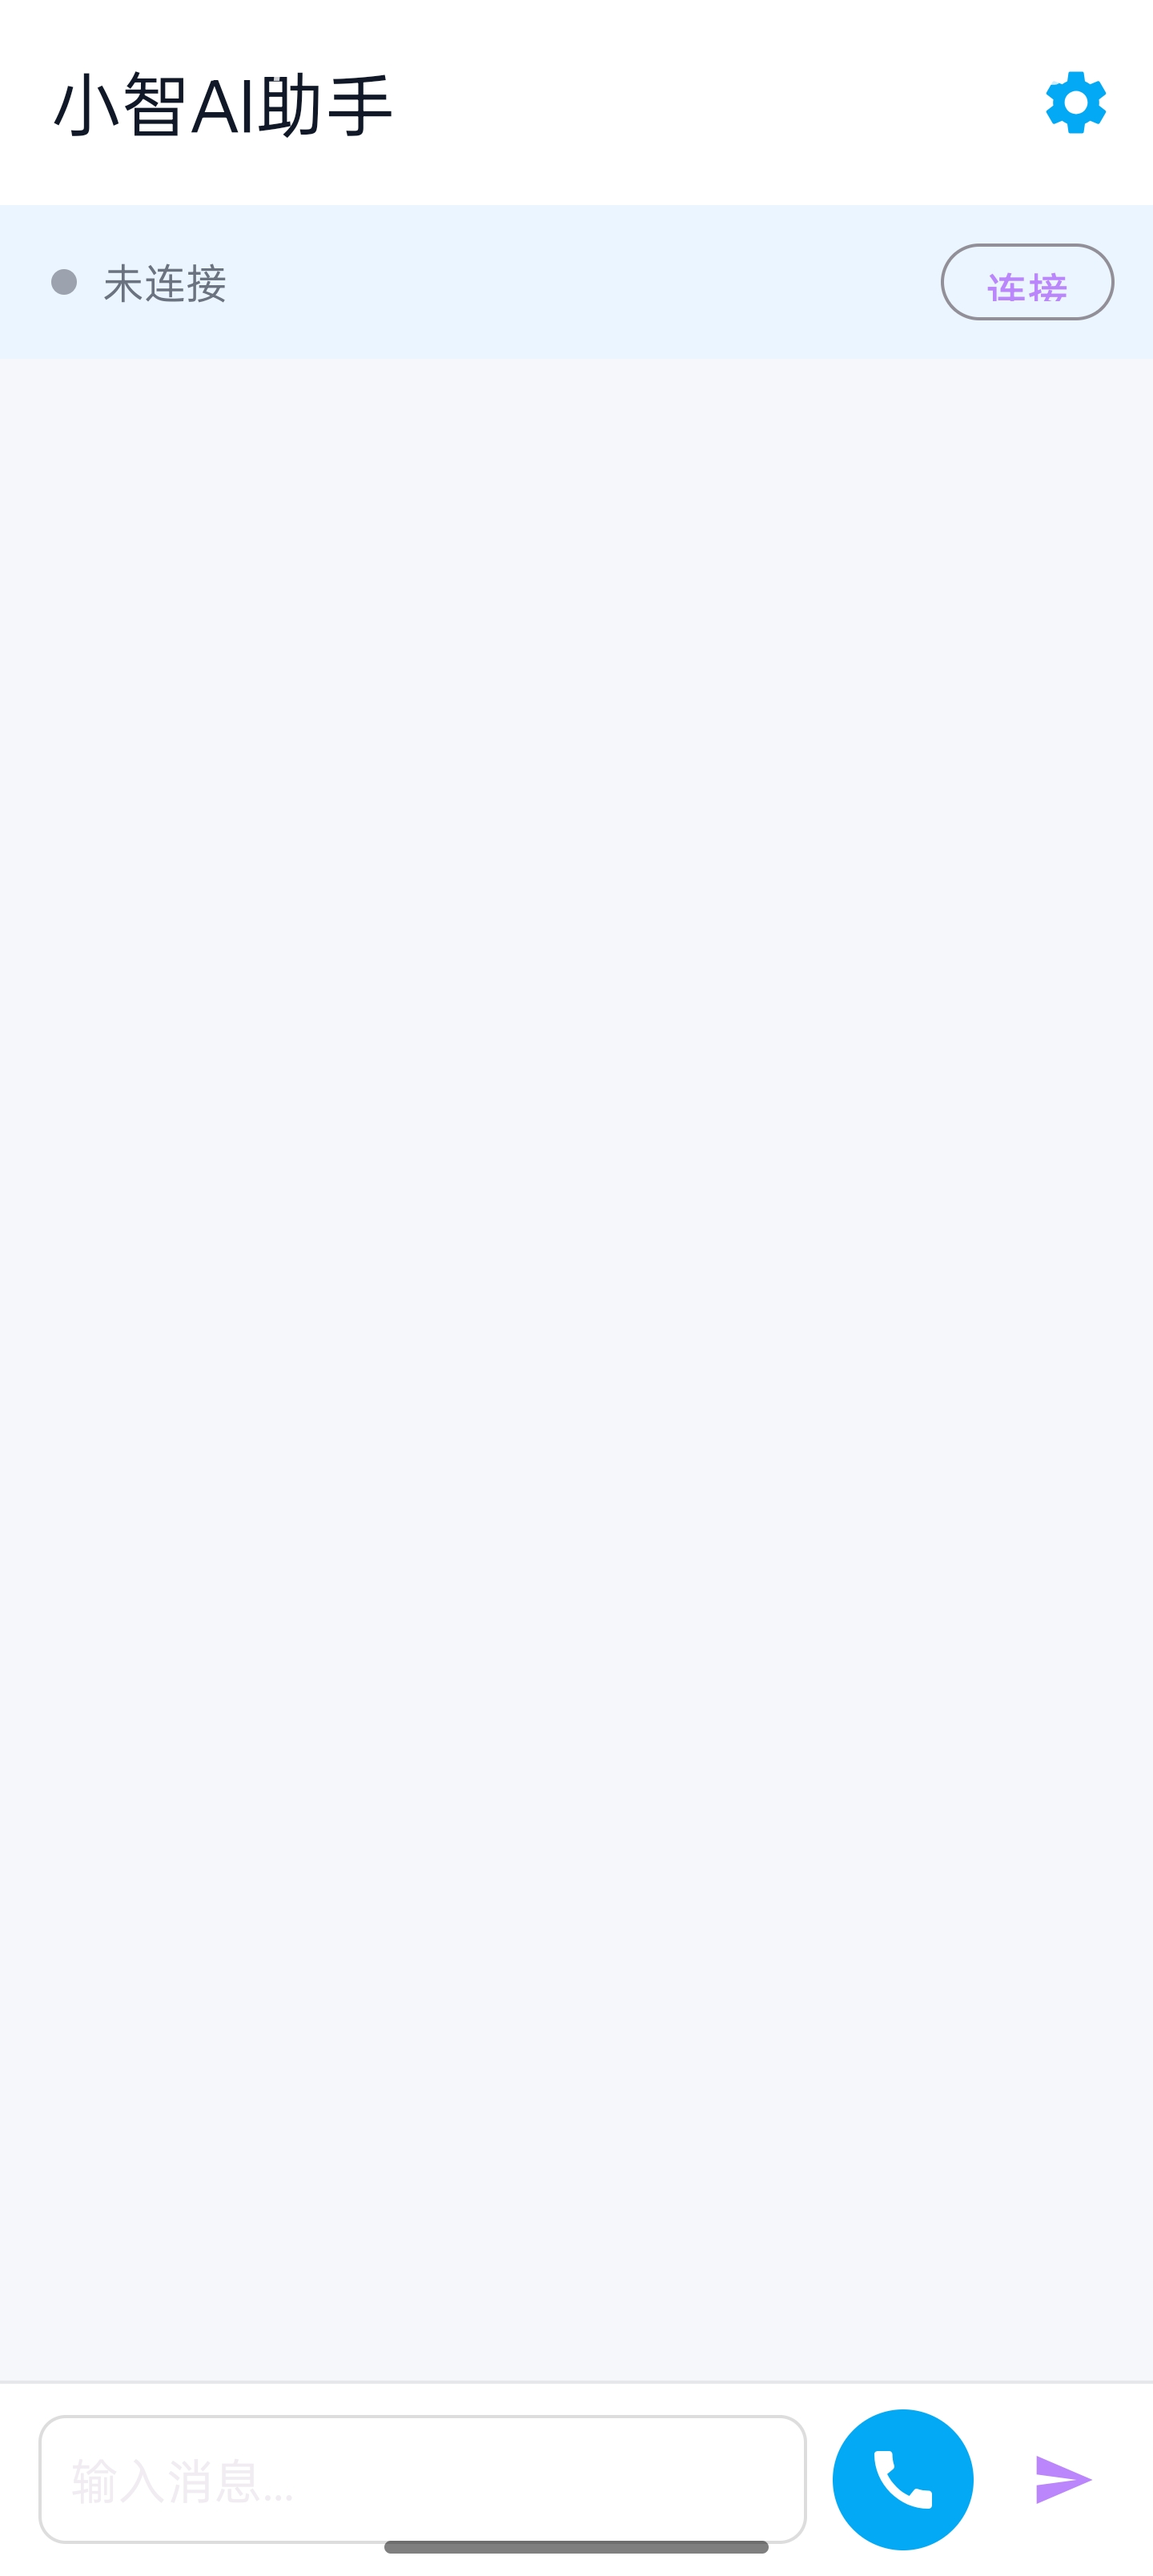
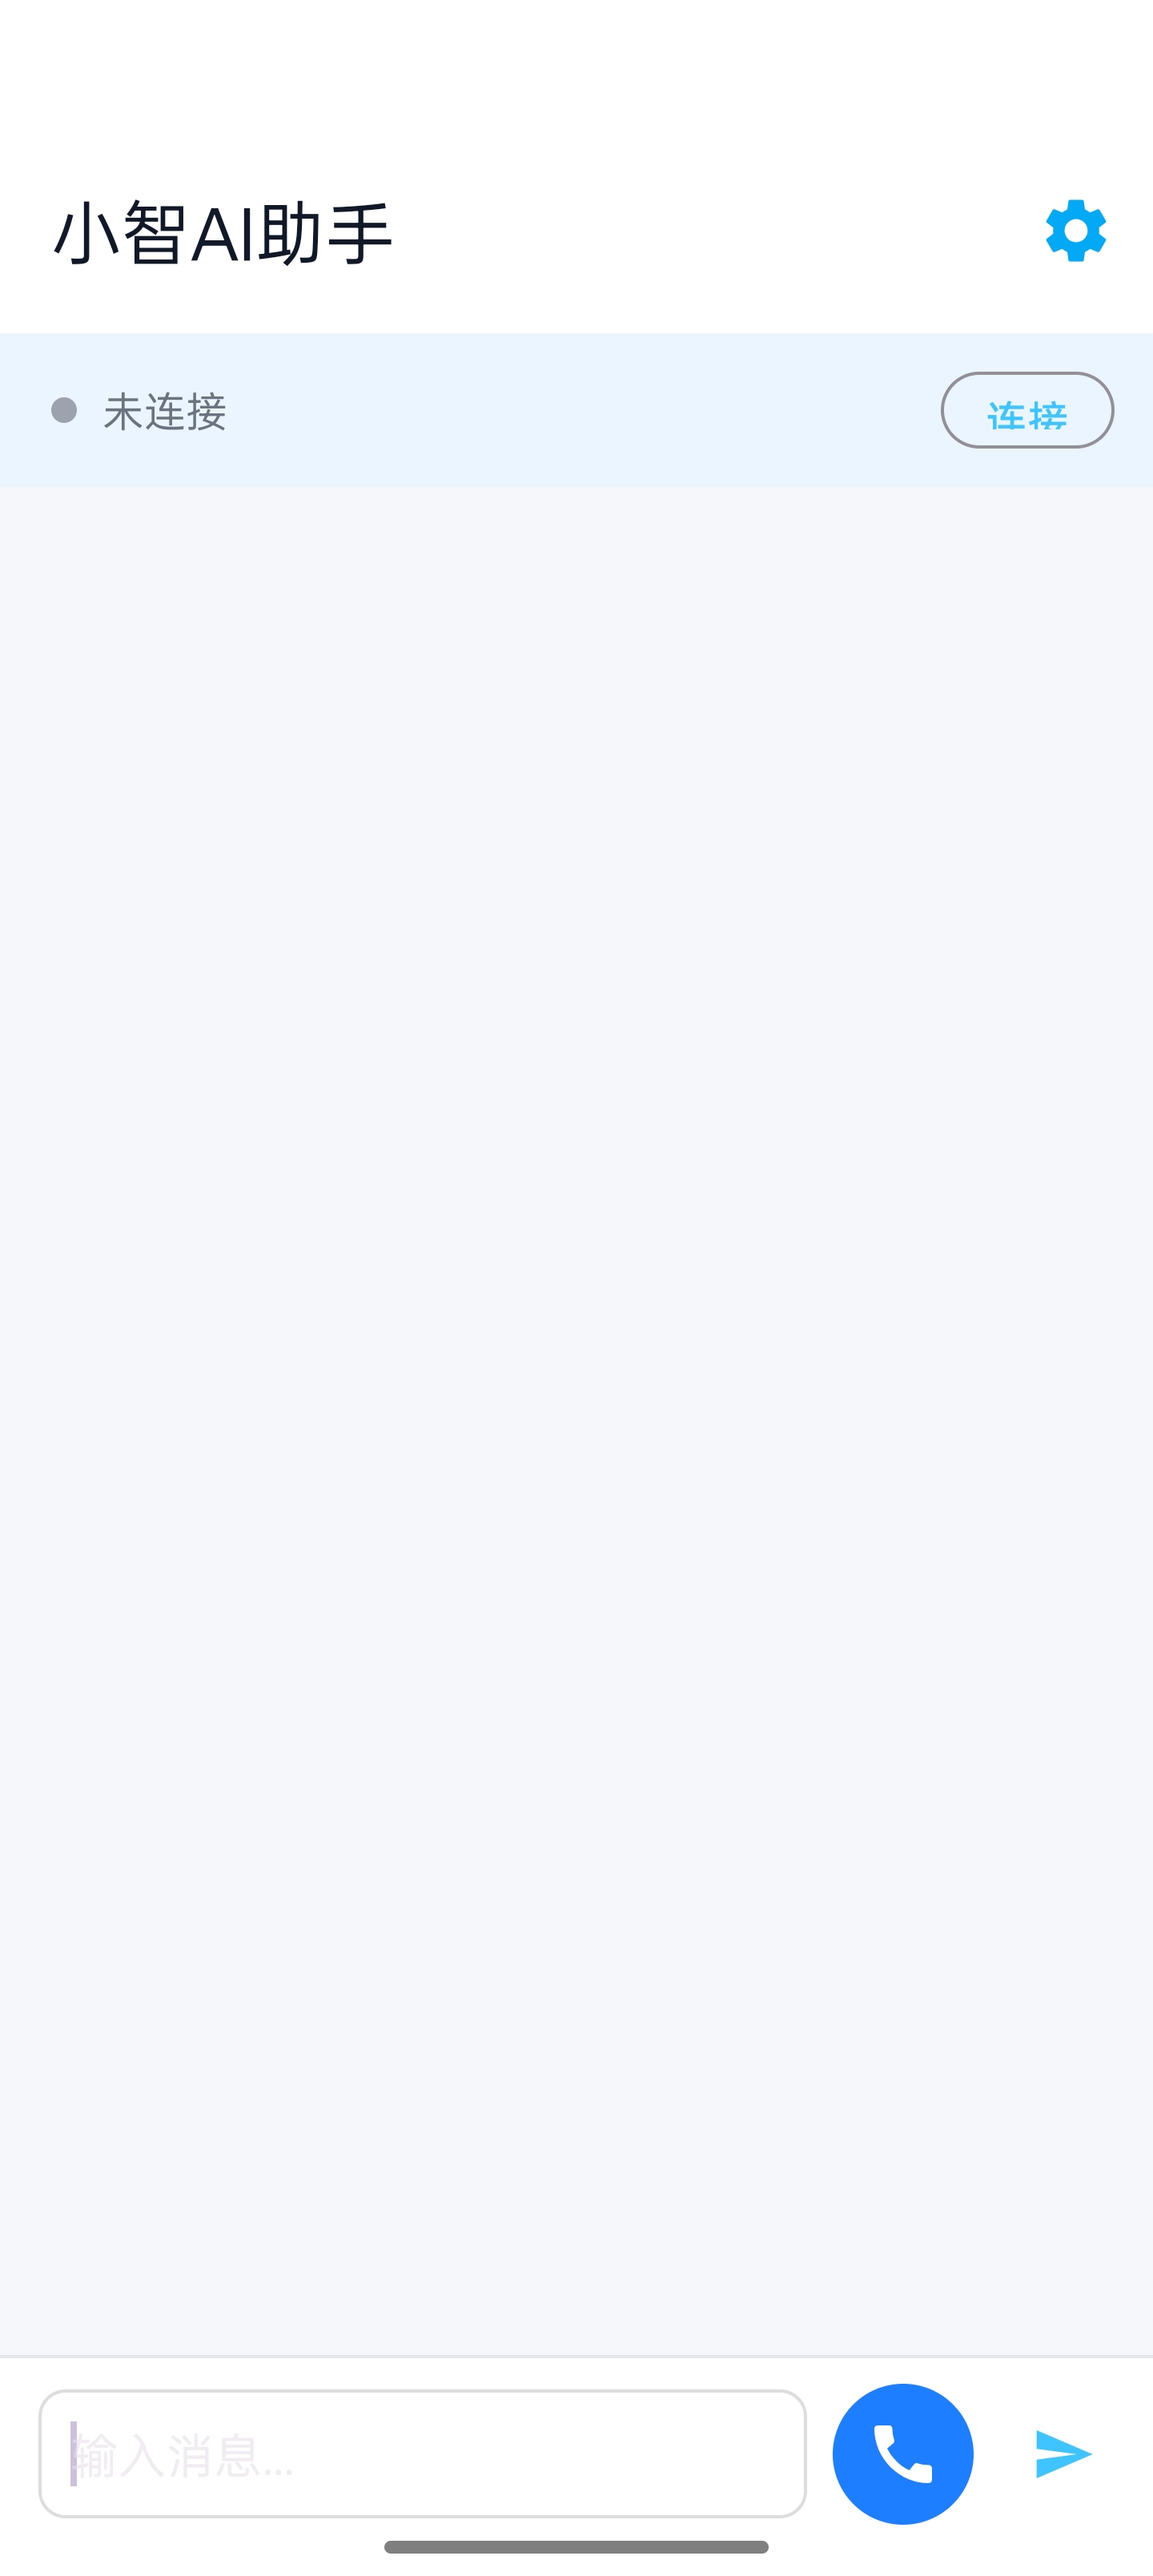
fix: 修复连接按钮文字截断等5个UI问题
- 连接按钮高度改为 wrap_content，彻底解决文字被截断
- 状态栏高度改为 wrap_content+paddingVertical，不再强制48dp
- sendButton 由 MaterialButton 改为 ImageButton，渲染更稳定
- bg_edit_text 改为圆角填充样式，更符合 Material3 风格
- 消息区域加入空状态提示文字，首次打开不再一片空白
- 收到第一条消息后空状态自动隐藏

diff --git a/app/src/main/java/com/lhht/xiaozhi/activities/MainActivity.java b/app/src/main/java/com/lhht/xiaozhi/activities/MainActivity.java
@@ -57,8 +57,8 @@ public class MainActivity extends AppCompatActivity implements WebSocketManager.
     private TextView connectionStatus;
     private Button connectButton;
     private ImageButton recordButton;
+    private ImageButton sendButton;
     private EditText messageInput;
-    private Button sendButton;
     private AudioRecord audioRecord;
     private AudioTrack audioTrack;
     private boolean isRecording = false;
@@ -95,6 +95,15 @@ public class MainActivity extends AppCompatActivity implements WebSocketManager.
         messageAdapter = new MessageAdapter();
         messagesRecyclerView.setLayoutManager(new LinearLayoutManager(this));
         messagesRecyclerView.setAdapter(messageAdapter);
+
+        // 无消息时显示空状态提示，收到第一条消息后自动隐藏
+        View emptyStateView = findViewById(R.id.emptyStateView);
+        messageAdapter.registerAdapterDataObserver(new RecyclerView.AdapterDataObserver() {
+            @Override
+            public void onItemRangeInserted(int positionStart, int itemCount) {
+                if (emptyStateView != null) emptyStateView.setVisibility(View.GONE);
+            }
+        });
         
         Log.i("MainActivity", "应用启动");
 
